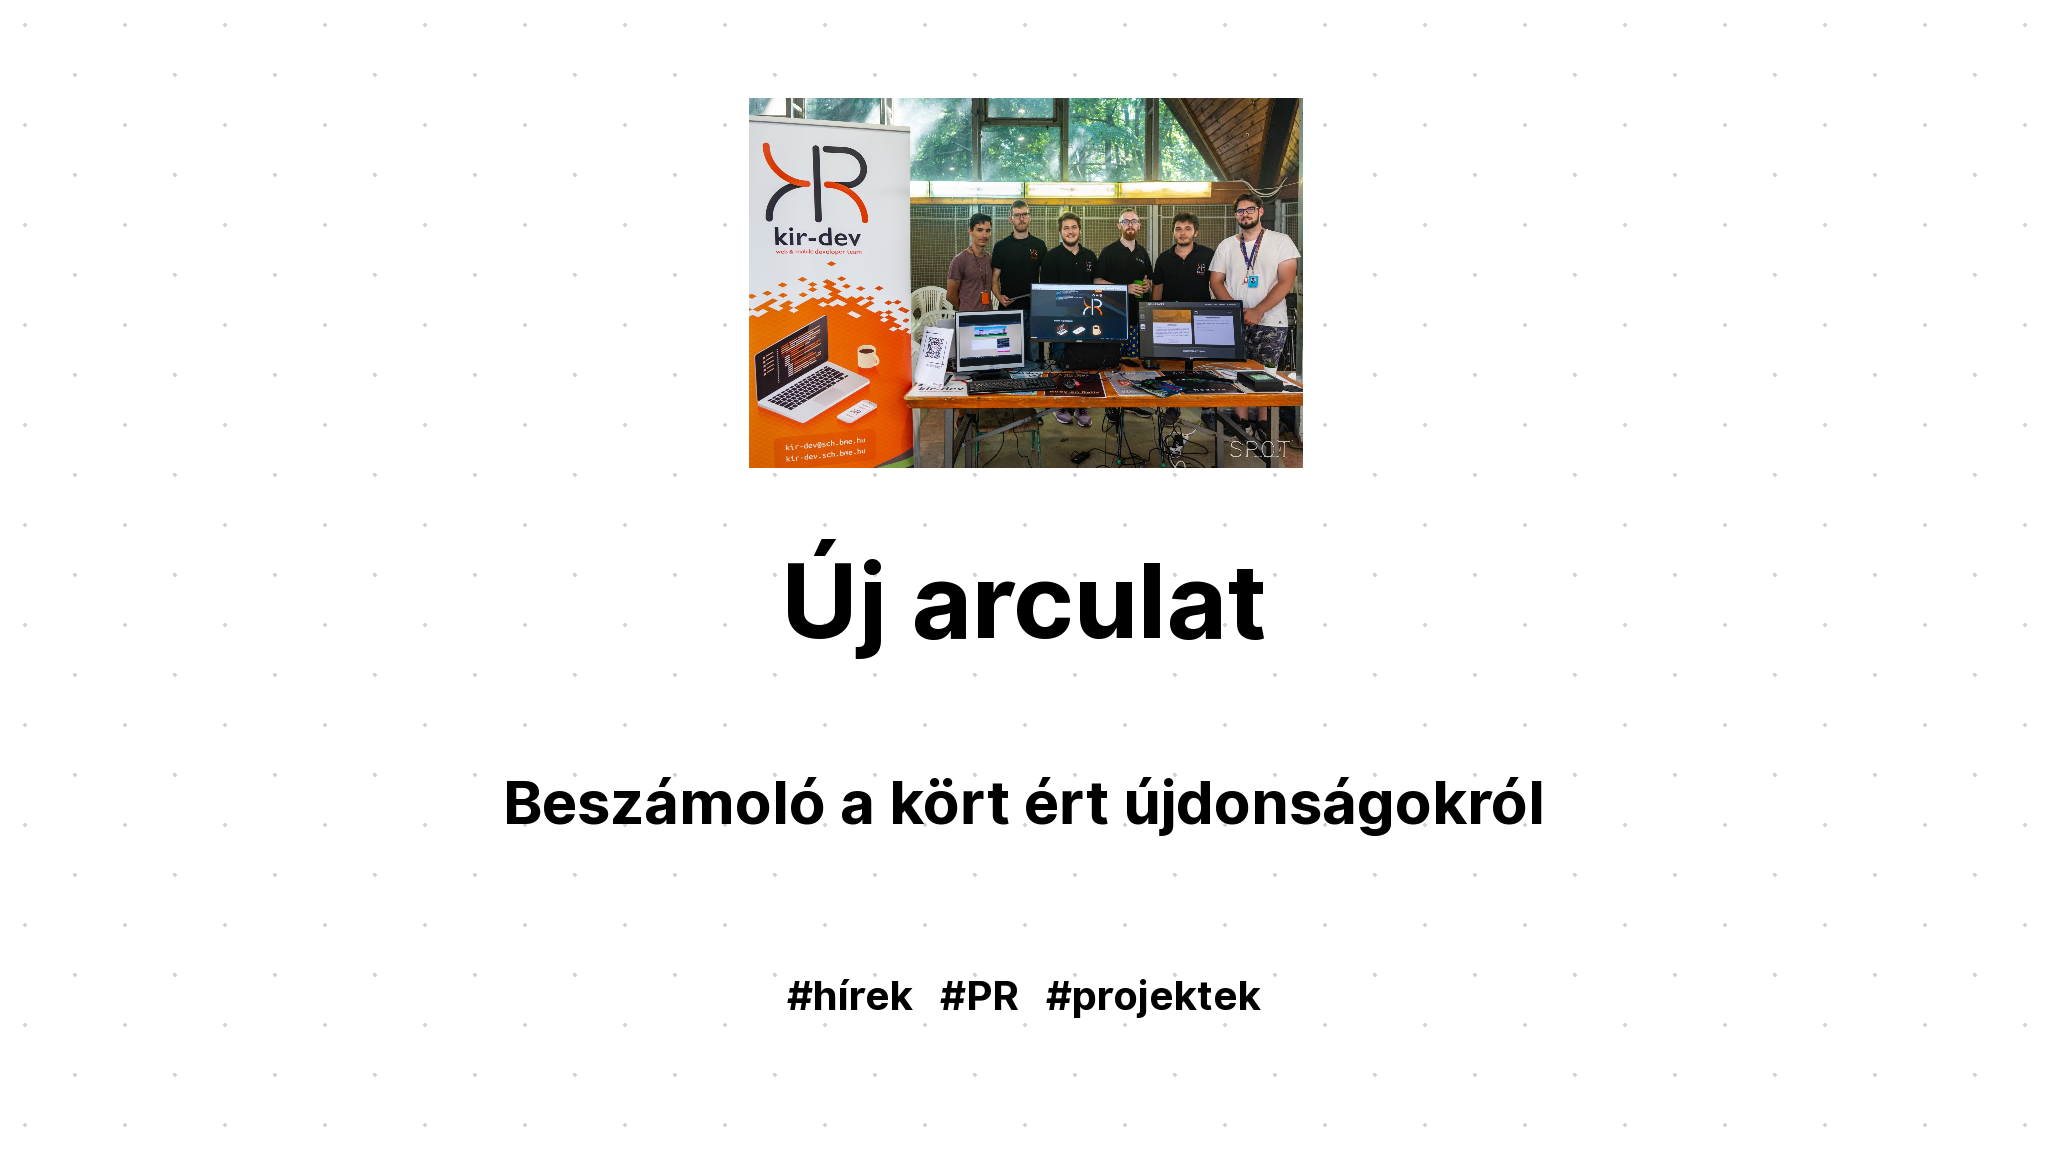
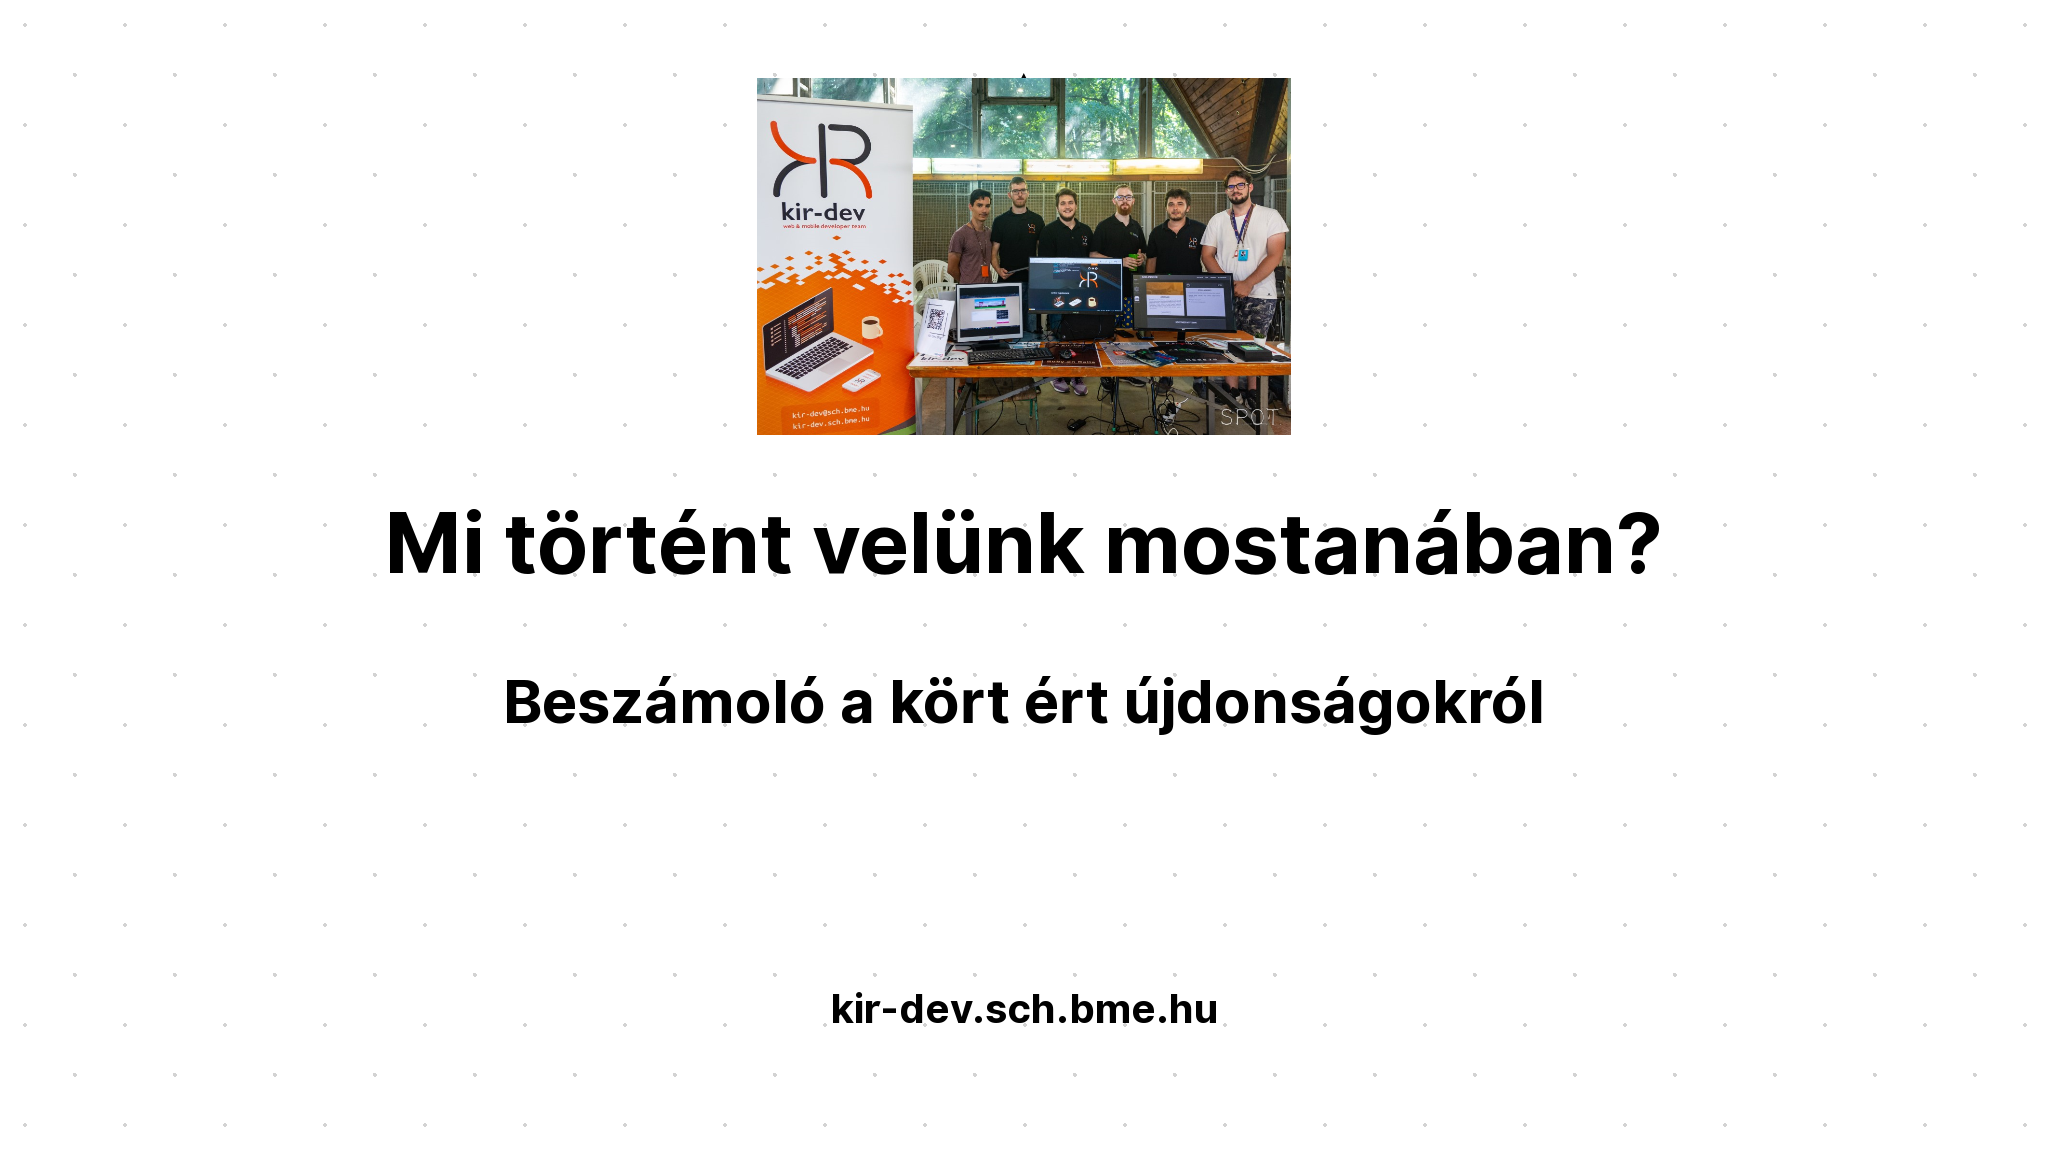
Better title latest post (#226)
* Add better title to the newest post

* Replace og-image

diff --git a/src/content/posts/2021-08-22-uj-arculat.md b/src/content/posts/2021-08-22-uj-arculat.md
@@ -2,15 +2,13 @@
 layout: post
 author: triszt4n
 date: 2021-08-22 23:55:13
-title: 'Új arculat'
+title: 'Mi történt velünk mostanában?'
 lead: 'Beszámoló a kört ért újdonságokról'
 tags: ['hírek', 'PR', 'projektek']
 comment: true
 featuredImage: ../images/posts/uj-arculat.jpg
 ogImage: ../images/posts/uj-arculat-og.png
 ---
-
-## Mi történt velünk az utóbbi időkben?
 
 A nyáron sem állt meg a munka a körünkben, ebből szeretnénk egy kis ízelítőt mutatni nektek...
 
